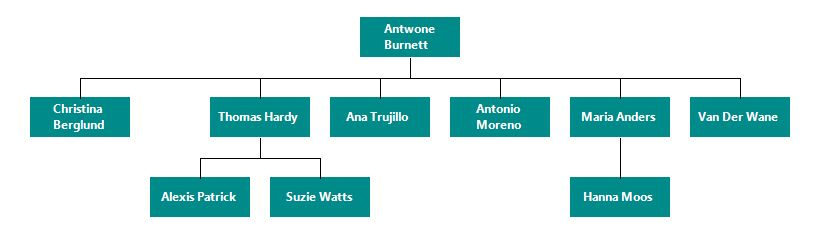
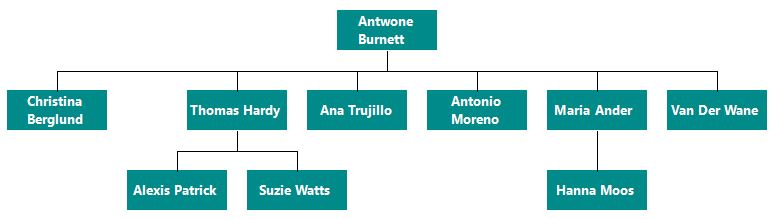
WF-29793, Modified the images for Data binding documentation.

diff --git a/WindowsForms/Diagram/Advanced-Features.md b/WindowsForms/Diagram/Advanced-Features.md
@@ -1509,21 +1509,73 @@ To map the user defined XML data with Diagram, you have to configure the fields 
 
 //Binds the XML(local data) with node
 
-diagram1.Binding.DefaultNode = rect;
+ Syncfusion.Windows.Forms.Diagram.Rectangle rect = new Syncfusion.Windows.Forms.Diagram.Rectangle(100, 100, 100, 40, MeasureUnits.Pixel);
+ 
+ rect.LineStyle.LineWidth = 0;
+ 
+ rect.FillStyle.Color = Color.DarkCyan;
+ 
+ // Default Label 
+ 
+ Syncfusion.Windows.Forms.Diagram.Label label = new Syncfusion.Windows.Forms.Diagram.Label();
+ 
+ label.FontStyle.Family = "Segoe UI";
+ 
+ label.FontStyle.Size = 9;
+ 
+ label.FontStyle.Bold = true;
+ 
+ label.FontColorStyle.Color = Color.White;
+ 
+ label.UpdatePosition = true;
+ 
+ rect.Labels.Add(label);
+ 
+ //Initializing Data Binding properties
+ 
+ diagram1.Binding.DefaultNode = rect;
+ 
+ diagram1.Binding.Label.Add("Name");
+ 
+ diagram1.Binding.ParentId = "ManagerID";
+ 
+ diagram1.Binding.Id = "EmployeeID";
 
-diagram1.Binding.ParentId = "ManagerID";
-
-diagram1.Binding.Id = "EmployeeID";
-
-diagram1.Binding.DataSource = diagram1.GetDataSourceFromXML("..\\..\\XML Binding1.xml");
-
+ diagram1.Binding.DataSource = diagram1.GetDataSourceFromXML("..\\..\\XML Binding1.xml");
+ 
 {% endhighlight %}
 
 {% highlight vbnet %}
 
 'Binds the XML(local data) with node
 
+Dim rect As New Syncfusion.Windows.Forms.Diagram.Rectangle(100, 100, 100, 40, MeasureUnits.Pixel)
+
+rect.LineStyle.LineWidth = 0
+
+rect.FillStyle.Color = Color.DarkCyan
+
+' Default Label 
+
+Dim label As New Syncfusion.Windows.Forms.Diagram.Label()
+
+label.FontStyle.Family = "Segoe UI"
+
+label.FontStyle.Size = 9
+
+label.FontStyle.Bold = True
+
+label.FontColorStyle.Color = Color.White
+
+label.UpdatePosition = True
+
+rect.Labels.Add(label)
+
+'Initializing Data Binding properties
+
 diagram1.Binding.DefaultNode = rect
+
+diagram1.Binding.Label.Add("Name")
 
 diagram1.Binding.ParentId = "ManagerID"
 
@@ -1547,6 +1599,31 @@ You can bind the Diagram with DataBase data by using SqlConnection.
 The following code illustrates how to bind the data to the Diagram.
 
 {% highlight c# %}
+Syncfusion.Windows.Forms.Diagram.Rectangle rect = new Syncfusion.Windows.Forms.Diagram.Rectangle(100, 100, 100, 40, MeasureUnits.Pixel);
+
+rect.LineStyle.LineWidth = 0;
+
+rect.FillStyle.Color = Color.DarkCyan;
+
+// Default Label 
+
+Syncfusion.Windows.Forms.Diagram.Label label = new Syncfusion.Windows.Forms.Diagram.Label();
+
+label.FontStyle.Family = "Segoe UI";
+
+label.FontStyle.Size = 10;
+
+label.FontStyle.Bold = true;
+
+label.FontColorStyle.Color = Color.White;
+
+label.UpdatePosition = true;
+
+rect.Labels.Add(label);
+
+//Initializing Data Binding properties
+            
+diagram1.Binding.DefaultNode = rect;
 
 diagram1.Binding.Id = "Id";
 
@@ -1584,6 +1661,32 @@ conn.Close();
 
 {% endhighlight %}
 {% highlight vbnet %}
+
+Dim rect As New Syncfusion.Windows.Forms.Diagram.Rectangle(100, 100, 100, 40, MeasureUnits.Pixel)
+
+rect.LineStyle.LineWidth = 0
+
+rect.FillStyle.Color = Color.DarkCyan
+
+' Default Label 
+
+Dim label As New Syncfusion.Windows.Forms.Diagram.Label()
+
+label.FontStyle.Family = "Segoe UI"
+
+label.FontStyle.Size = 10
+
+label.FontStyle.Bold = True
+
+label.FontColorStyle.Color = Color.White
+
+label.UpdatePosition = True
+
+rect.Labels.Add(label)
+
+'Initializing Data Binding properties
+
+diagram1.Binding.DefaultNode = rect
 
 diagram1.Binding.Id = "Id"
 
